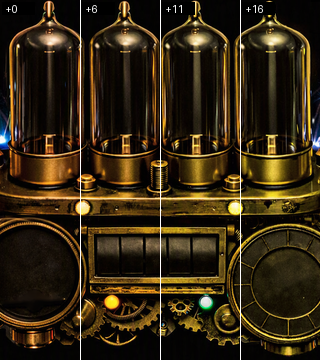
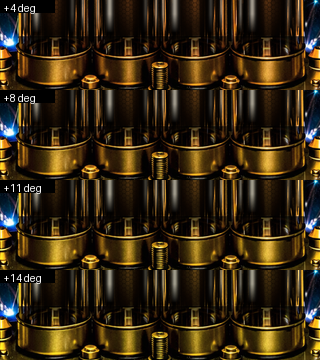
feat(ciq): hue calibration as repeated bands, not slices of one frame
A photo of the watch beside the monitor (artwork/panel_shift_compare.png) shows the
correction mostly working - mid brass matches to 0.0 deg of hue - with a residual
of +3-4 deg yellow and +0.1-0.2 saturation on the brightest and darkest warm tones.

The calibration screen is how that gets settled properly on the panel, so it is now
four copies of the SAME band (the brass-rich collars and manifold, screen rows
96..196) stacked and labelled +4/+8/+11/+14 deg. The old layout cut one frame into
four vertical slices, which puts different hardware in each strip and cannot be
compared like for like. The band's own pre-correction is applied to the whole frame
first, then the band is lifted out of it, so each band is a true render at its shift.

diff --git a/ciq/make_calibration.py b/ciq/make_calibration.py
@@ -1,19 +1,25 @@
 """Build a hue-calibration background for checking the AMOLED colour correction ON THE WATCH.
 
-The correction in device_colour.py was estimated from one phone photo. This writes a background
-split into four vertical strips of the real face, each pre-corrected by a different hue shift,
-with the shift printed at the top of the strip:
+The correction in device_colour.py was estimated from one phone photo, and a later photo of the watch
+beside the monitor showed a residual: the mid brass matches (hue 28.2 on both) but the brightest and
+darkest warm tones come out 3-4 deg yellower and 0.1-0.2 more saturated on the panel. So the shift is
+worth re-picking by eye.
 
-    0 deg (uncorrected) | +6 deg | +11 deg (the measured default) | +16 deg
+Each band is the SAME piece of the face, pre-corrected by a different hue shift, stacked down the
+screen and labelled - the same content repeated rather than four slices of one frame, so the bands can
+be compared like for like (a slice-wise layout compares different hardware in each strip):
 
-Sideload a build of it, look at the watch in normal light, and pick the strip whose brass looks
-like brass (not copper, not green-yellow). Then set HUE_SHIFT_DEG in device_colour.py to it.
+    +4 deg | +8 deg | +11 deg (the shipped default) | +14 deg
+
+Sideload a build of it, look at the watch in normal light, and pick the band whose brass looks like
+brass (not copper, not green-yellow). Then set HUE_SHIFT_DEG in device_colour.py to that value and
+re-run `python make.py assets` - the baked art AND the live ink both take the shift from there.
 
 Usage:
-    python make_calibration.py     # writes artwork/calib_hue.png
-Then build it as a separate .prg without touching the shipping background:
-    python make_calibration.py --install   # copies it over resources/drawables/background.png
-    (build + push_watch.ps1), then:  python prepare_resources.py   # restores the shipping one
+    python make_calibration.py               # writes artwork/calib_hue.png
+    python make_calibration.py --install     # also copies it over resources/drawables/background.png
+Then: python make.py build && python make.py push
+and afterwards: python prepare_resources.py     # restore the shipping background
 """
 import argparse
 import os
@@ -26,7 +32,9 @@ import device_colour
 HERE = os.path.dirname(os.path.abspath(__file__))
 SRC = os.path.join(HERE, "artwork", "cand_split.png")
 OUT = os.path.join(HERE, "artwork", "calib_hue.png")
-SHIFTS = [0, 6, 11, 16]
+SHIFTS = [4, 8, 11, 14]
+BAND = (96, 196)        # the screen rows to repeat: the collars and manifold, brass-rich
+LABEL_H = 12
 
 if __name__ == "__main__":
     ap = argparse.ArgumentParser()
@@ -35,19 +43,19 @@ if __name__ == "__main__":
     args = ap.parse_args()
 
     base = Image.open(SRC).convert("RGB")
-    out = base.copy()
-    sw = base.width // len(SHIFTS)
+    w, h = base.size
+    y0, y1 = BAND
+    step = h // len(SHIFTS)
+    out = Image.new("RGB", (w, h), (0, 0, 0))
     d = ImageDraw.Draw(out)
     for i, shift in enumerate(SHIFTS):
-        strip = device_colour.correct(base, hue_shift_deg=shift)
-        box = (i * sw, 0, (i + 1) * sw, base.height)
-        out.paste(strip.crop(box), box[:2])
-        if i:
-            d.line((i * sw, 0, i * sw, base.height), fill=(255, 255, 255))
-        d.rectangle((i * sw + 2, 2, i * sw + 34, 14), fill=(0, 0, 0))
-        d.text((i * sw + 5, 3), f"+{shift}", fill=(255, 255, 255))
+        # the whole frame corrected at this shift, then the SAME band lifted out of it
+        corr = device_colour.correct(base, hue_shift_deg=shift)
+        out.paste(corr.crop((0, y0, w, y1)), (0, i * step))
+        d.rectangle((0, i * step, 54, i * step + LABEL_H), fill=(0, 0, 0))
+        d.text((3, i * step + 2), f"+{shift} deg", fill=(255, 255, 255))
     out.save(OUT)
-    print("wrote", OUT, "strips:", ", ".join(f"+{s} deg" for s in SHIFTS))
+    print("wrote", OUT, "bands:", ", ".join(f"+{s} deg" for s in SHIFTS))
     if args.install:
         dst = os.path.join(HERE, "resources", "drawables", "background.png")
         shutil.copyfile(OUT, dst)
